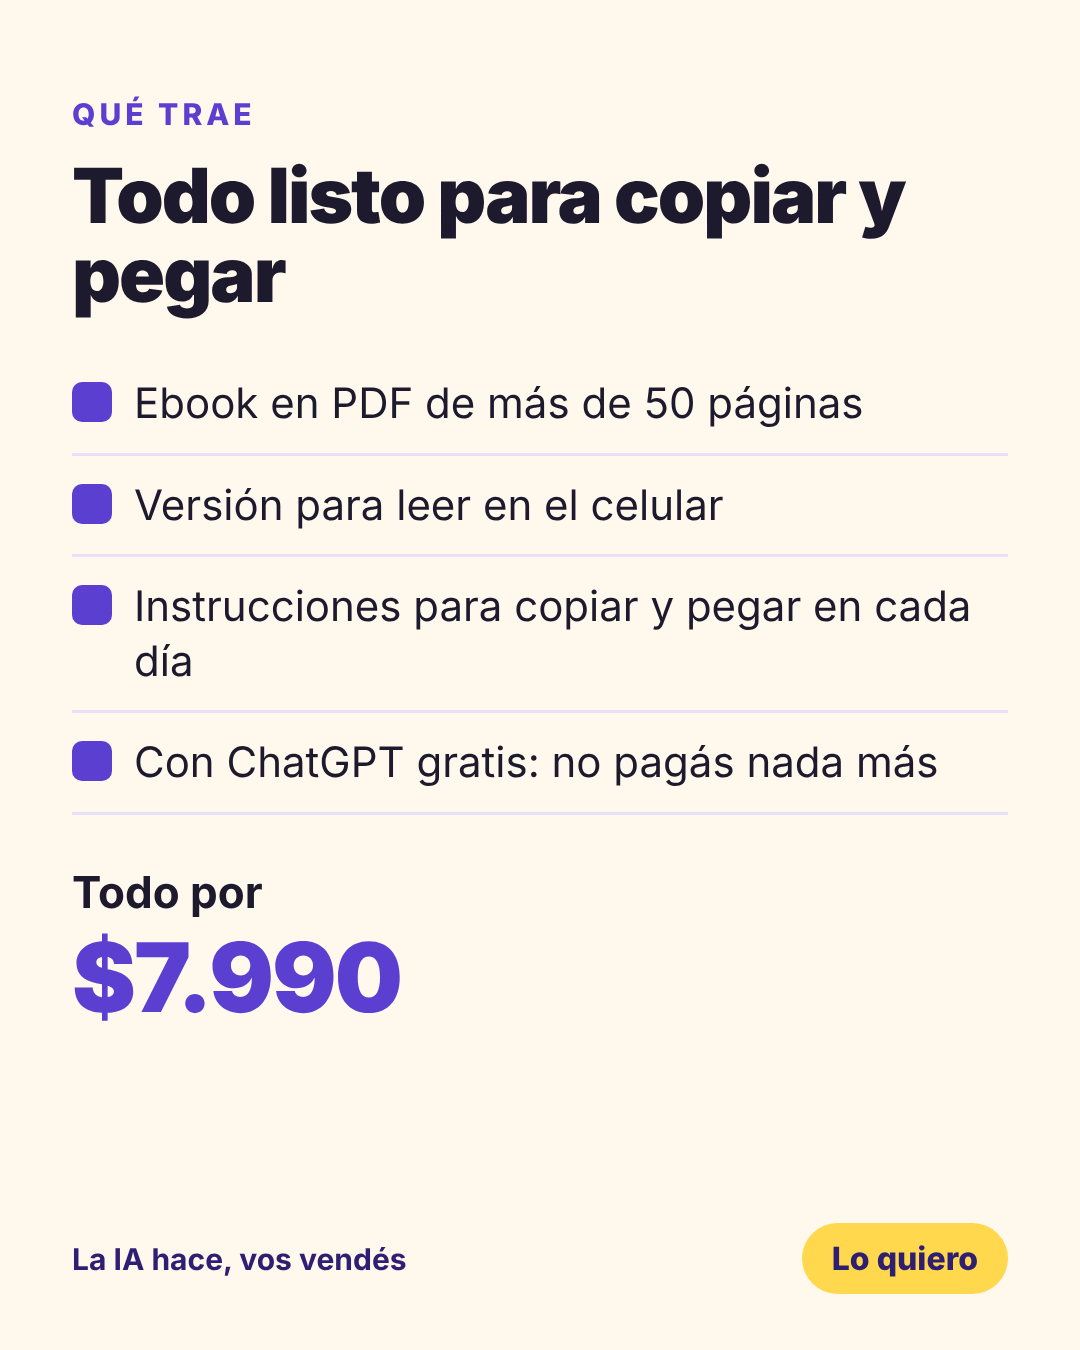
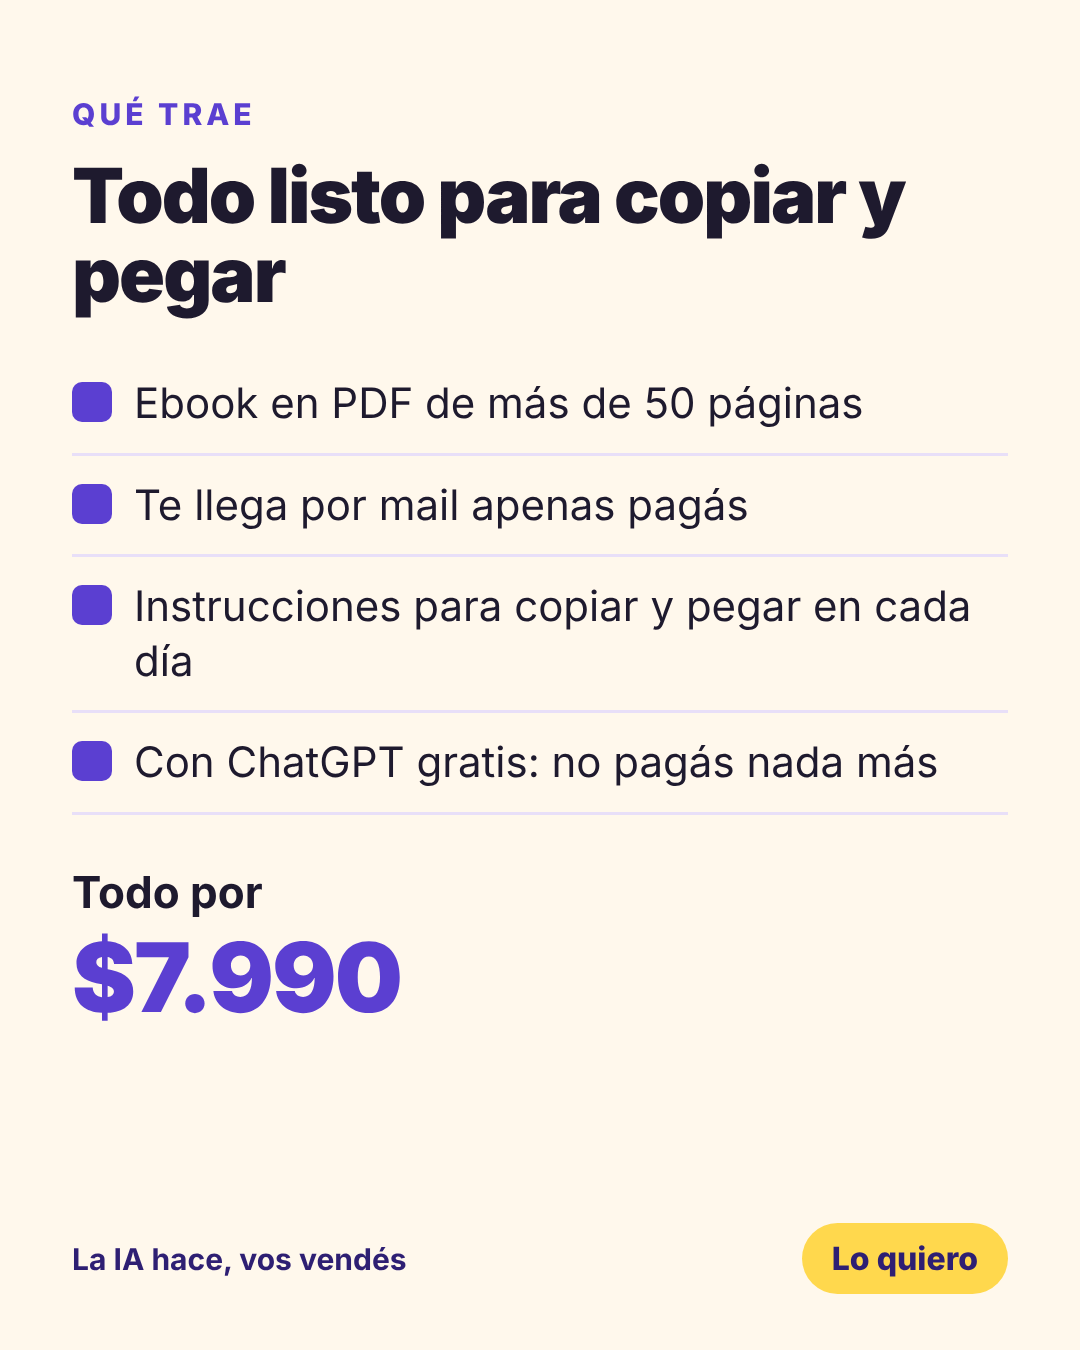
Anuncios: sin versión para el celular (igual que la landing)
Claude-Session: https://claude.ai/code/session_01QqQ47q7BBH8717iqmc6uZo

Changed region(s): [[0.1222, 0.3422, 0.7028, 0.4044]]

diff --git a/anuncios/src/creativos.html b/anuncios/src/creativos.html
@@ -99,7 +99,7 @@ h1{font-weight:900;letter-spacing:-2px;line-height:1.02}
 
 <div class="s c" id="c5"><div class="wrap">
   <div class="num">Qué trae</div><h2>Todo listo para copiar y pegar</h2>
-  <ul><li>Ebook en PDF de más de 50 páginas</li><li>Versión para leer en el celular</li><li>Instrucciones para copiar y pegar en cada día</li><li>Con ChatGPT gratis: no pagás nada más</li></ul>
+  <ul><li>Ebook en PDF de más de 50 páginas</li><li>Te llega por mail apenas pagás</li><li>Instrucciones para copiar y pegar en cada día</li><li>Con ChatGPT gratis: no pagás nada más</li></ul>
   <p class="precio">Todo por<span>$7.990</span></p>
 </div><div class="brand"><span>La IA hace, vos vendés</span><span class="pill">Lo quiero</span></div></div>
 

diff --git a/anuncios/anuncios.md b/anuncios/anuncios.md
@@ -31,7 +31,7 @@ Imágenes en `anuncios/img/` (1080×1350, formato 4:5). Fuente editable: `anunci
 >
 > 7 días, una tarea por día, con ChatGPT gratis. Aunque no sepas nada de tecnología.
 >
-> 📘 Ebook en PDF + versión para el celular · $7.990
+> 📘 Ebook en PDF · te llega por mail · $7.990
 
 **Título:** Dejá de contestar lo mismo todo el día
 **Descripción:** Ebook · 7 días · $7.990
@@ -78,7 +78,7 @@ Imágenes en `anuncios/img/` (1080×1350, formato 4:5). Fuente editable: `anunci
 >
 > «La IA hace, vos vendés» te lleva de la mano en 7 días, con ChatGPT gratis y todo listo para copiar y pegar.
 >
-> 📘 $7.990 · PDF + versión para el celular
+> 📘 Ebook en PDF · $7.990
 
 **Título:** La IA explicada para emprendedores
 **Descripción:** Sin saber de tecnología · $7.990
